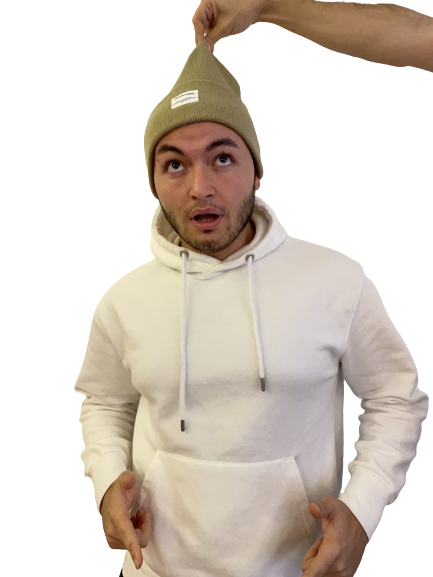
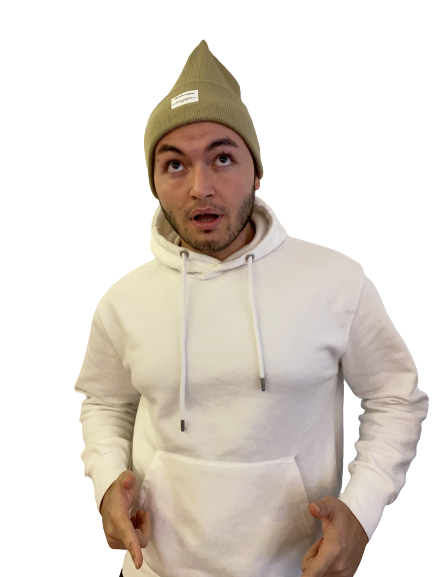
şapka çıkarma animasyonu tamamlandı

Changed region(s): [[0.4203, 0.0, 1.0, 0.1248]]

diff --git a/components/Me/Me.module.scss b/components/Me/Me.module.scss
@@ -11,10 +11,12 @@
     ;
     margin-inline: auto;
     &.take_off{
-      animation: takeOff 1s linear forwards;
+      background-image: url("/me/27.png");
+      animation: takeOff 750ms linear;
     }
     &.take_on{
-      animation: takeOn 1s linear forwards;
+      background-image: url("/me/1.png");
+      animation: takeOn 750ms linear;
     }
 }
 .front_end{
@@ -41,82 +43,82 @@
   from{
     background-image: url("/me/1.png");
   }
-  4%{
+  3%{
     background-image: url("/me/2.png");
   }
-  8%{
+  6%{
     background-image: url("/me/3.png");
   }
-  12%{
+  9%{
     background-image: url("/me/4.png");
   }
-  16%{
+  12%{
     background-image: url("/me/5.png");
   }
-  20%{
+  15%{
     background-image: url("/me/6.png");
   }
-  24%{
+  18%{
     background-image: url("/me/7.png");
   }
-  28%{
+  21%{
     background-image: url("/me/8.png");
   }
-  32%{
+  24%{
     background-image: url("/me/9.png");
   }
-  36%{
+  27%{
     background-image: url("/me/10.png");
   }
-  40%{
+  30%{
     background-image: url("/me/11.png");
   }
-  44%{
+  33%{
     background-image: url("/me/12.png");
   }
-  48%{
+  36%{
     background-image: url("/me/13.png");
   }
-  52%{
+  39%{
     background-image: url("/me/14.png");
   }
-  56%{
+  42%{
     background-image: url("/me/15.png");
   }
-  60%{
+  45%{
     background-image: url("/me/16.png");
   }
-  64%{
+  48%{
     background-image: url("/me/17.png");
   }
-  68%{
+  51%{
     background-image: url("/me/18.png");
   }
-  72%{
+  54%{
     background-image: url("/me/19.png");
   }
-  76%{
+  57%{
     background-image: url("/me/20.png");
   }
-  80%{
+  60%{
     background-image: url("/me/21.png");
   }
-  84%{
+  63%{
     background-image: url("/me/22.png");
   }
-  88%{
+  66%{
     background-image: url("/me/23.png");
   }
-  92%{
+  69%{
     background-image: url("/me/24.png");
   }
-  96%{
+  72%{
     background-image: url("/me/25.png");
   }
-  97%{
+  75%{
     background-image: url("/me/26.png");
   }
-  100%{
+  78%{
     background-image: url("/me/27.png");
   }
 }
@@ -201,9 +203,6 @@
     background-image: url("/me/2.png");
   }
   78%{
-    background-image: url("/me/1.png");
-  }
-  100%{
     background-image: url("/me/1.png");
   }
 }

diff --git a/components/MobileFirstSection/MobileFirstSection.module.scss b/components/MobileFirstSection/MobileFirstSection.module.scss
@@ -7,7 +7,7 @@
 }
 .overlay_text{
   opacity: 0;
-  position: fixed;
+  position: absolute;
   top: 50%;
   left: 50%;
   translate: -50% -50%;
@@ -38,7 +38,7 @@
 
 @keyframes mainAnimation {
   from{
-    position: fixed;
+    position: absolute;
     top: 50%;
     left: 50%;
     translate: -50% -50%;
@@ -46,7 +46,7 @@
     height: 500px;
   }
   50%{
-    position: fixed;
+    position: absolute;
     top: 50%;
     left: 50%;
     translate: -50% -50%;
@@ -54,7 +54,7 @@
     height: 1000px;
   }
   to{
-    position: fixed;
+    position: absolute;
     top: 50%;
     left: 50%;
     translate: -50% -50%;

diff --git a/components/Me/Me.js b/components/Me/Me.js
@@ -15,8 +15,8 @@ function Me() {
   };
 
   return (
-    <div className="grid grid-cols-1 md:grid-cols-2 text-white md:w-3/4 md:mx-auto">
-      <div className="grid content-center">
+    <div className="grid grid-cols-1 md:grid-cols-2 text-white dark:text-black md:w-3/4 md:mx-auto">
+      <div className="grid content-center mt-20">
         <h1 className="text-center font-[James-Stroker] text-7xl m-5 mb-0">
           Murat Demir
         </h1>

diff --git a/pages/index.js b/pages/index.js
@@ -10,9 +10,8 @@ export default function Home() {
         <meta name="description" content="Generated by muratdem1r" />
         <link rel="icon" href="/favicon.ico" />
       </Head>
-      <div className="container mx-auto p-5">
+      <div className="container mx-auto px-5 text-white">
         <Me />
-        {/* <MobileFirstSection /> */}
       </div>
     </>
   );

diff --git a/pages/_app.js b/pages/_app.js
@@ -1,13 +1,7 @@
 import "../styles/globals.scss";
 
 function MyApp({ Component, pageProps }) {
-  const whiteMode = false;
-
-  return (
-    <div className={whiteMode ? "white" : ""}>
-      <Component {...pageProps} />
-    </div>
-  );
+  return <Component {...pageProps} />;
 }
 
 export default MyApp;

diff --git a/components/MobileFirstSection/MobileFirstSection.js b/components/MobileFirstSection/MobileFirstSection.js
@@ -5,7 +5,7 @@ import { TbCertificate } from "react-icons/tb";
 
 function MobileFirstSection() {
   return (
-    <div>
+    <div className="relative">
       <div className={styles.overlay_text}>MOBILE FIRST</div>
       <div className={styles.main}>
         <div className={styles.overlay}></div>

diff --git a/styles/globals.scss b/styles/globals.scss
@@ -27,8 +27,8 @@ body{
   background-image: url("/background.jpg"); // Fallback
   background-image: url("/background.jpg"), linear-gradient(to left, #3a3838, #000000);
   background-blend-mode:multiply;
-  margin-top: 5rem;
 }
+
 a {
   color: inherit;
   text-decoration: none;

diff --git a/tailwind.config.js b/tailwind.config.js
@@ -7,6 +7,5 @@ module.exports = {
   theme: {
     extend: {},
   },
-  darkMode: ["class", '[data-mode="white"]'],
   plugins: [],
 };
